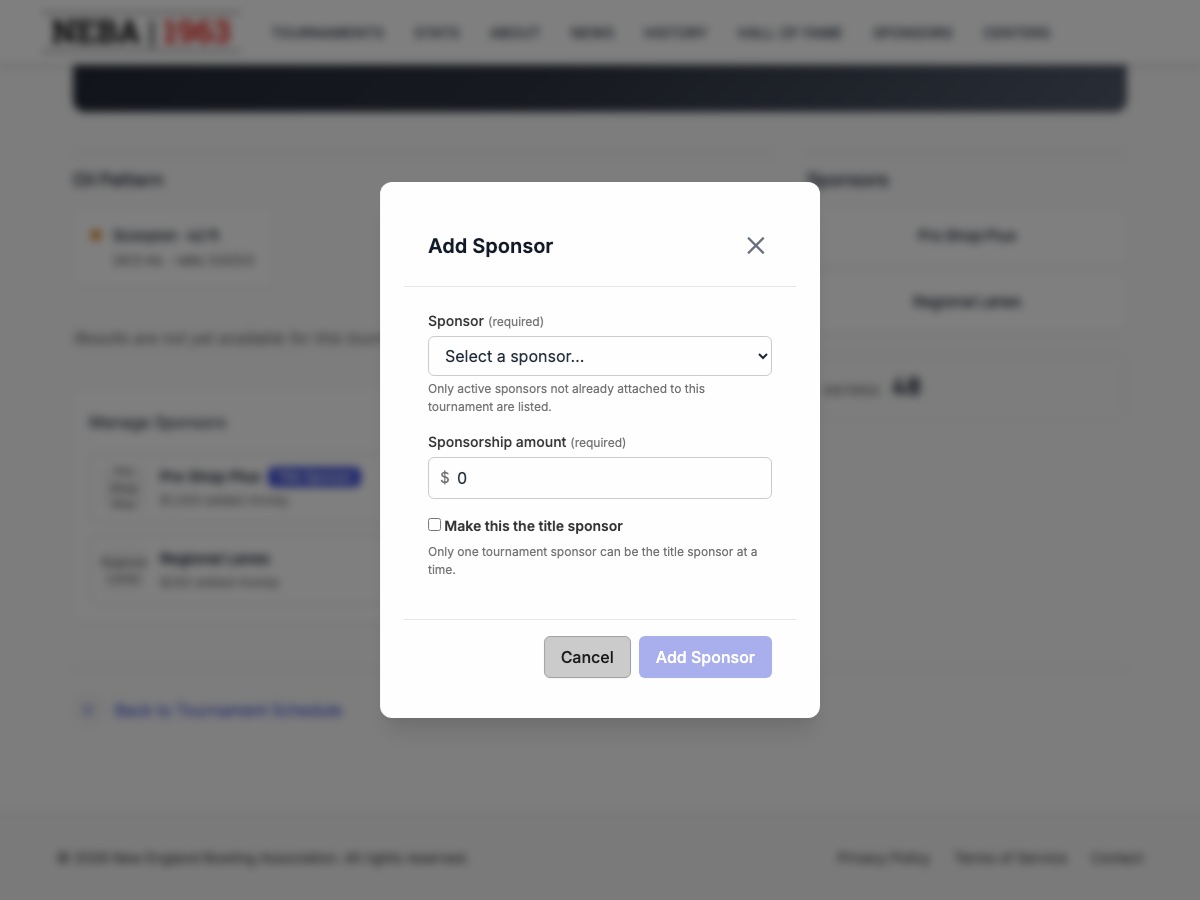
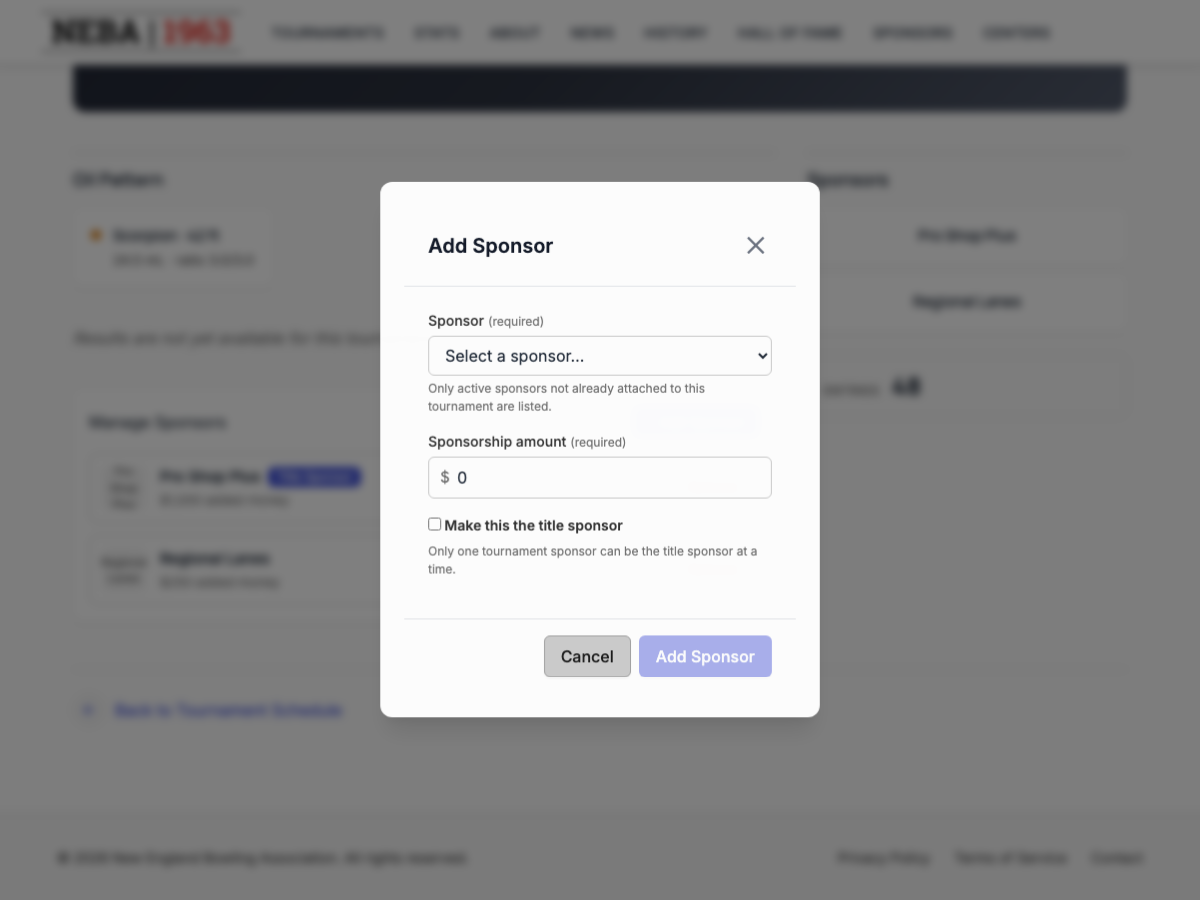
edit tournament help

diff --git a/tests/e2e/docs-screenshots/edit-tournament.spec.ts b/tests/e2e/docs-screenshots/edit-tournament.spec.ts
@@ -1,0 +1,42 @@
+import { test, expect } from '@playwright/test';
+import path from 'node:path';
+
+import { MOCK_TOURNAMENT_ID } from '../mock-api/mock-api-server';
+
+/**
+ * Generates the screenshots embedded in docs/help/edit-tournament.md.
+ *
+ * Run via `npm run docs:screenshots` (playwright.docs.config.ts), never as part of the
+ * normal E2E suite — see ADR-0007 (docs/adr/0007-in-repo-user-help-documentation.md).
+ *
+ * This script only navigates to the pre-filled edit form and never submits it, so it's
+ * safe to re-run against the same mock data without a reset step.
+ */
+
+const outDir = path.join('docs', 'help', 'images', 'edit-tournament');
+
+test.describe.configure({ mode: 'serial' });
+
+test.describe('edit-tournament help screenshots', () => {
+  test.use({ viewport: { width: 1200, height: 800 } });
+
+  test.beforeEach(async ({ page }) => {
+    await page.request.post('/__test/login?permissions=Tournaments.EditTournament');
+  });
+
+  test('detail edit button + pre-filled edit form', async ({ page }) => {
+    await page.goto(`/tournaments/${MOCK_TOURNAMENT_ID}`);
+    await page.waitForSelector('h1');
+
+    await expect(page.getByRole('link', { name: 'Edit Tournament' })).toBeVisible();
+
+    await page.screenshot({ path: path.join(outDir, 'detail-edit-button.png') });
+
+    await page.getByRole('link', { name: 'Edit Tournament' }).click();
+    await page.waitForSelector('#name');
+
+    // fullPage so every section (Venue & Entry Fee, Oil Pattern, Logo) is captured, not
+    // just the first viewport.
+    await page.screenshot({ path: path.join(outDir, 'edit-form.png'), fullPage: true });
+  });
+});

diff --git a/tests/e2e/mock-api/mock-api-server.ts b/tests/e2e/mock-api/mock-api-server.ts
@@ -337,7 +337,7 @@ export const MOCK_TOURNAMENT_DETAIL = {
       sponsorshipAmount: 250,
     },
   ],
-  oilPatterns: [{ name: 'Scorpion', length: 42, volume: 24.5, leftRatio: 3, rightRatio: 3 }],
+  oilPatterns: [{ oilPatternId: '01JX0000000000000000000040', name: 'Scorpion', length: 42, volume: 24.5, leftRatio: 3, rightRatio: 3 }],
   winners: ['Current Leader'],
   results: [],
 };
@@ -395,7 +395,7 @@ const MOCK_TOURNAMENT_OIL_REVEALED = {
   logoUrl: null,
   bowlingCenter: { name: 'Lucky Strike Lanes', city: 'Boston', state: 'MA' },
   sponsors: [],
-  oilPatterns: [{ name: 'Scorpion', length: 42, volume: 24.5, leftRatio: 3, rightRatio: 3 }],
+  oilPatterns: [{ oilPatternId: '01JX0000000000000000000041', name: 'Scorpion', length: 42, volume: 24.5, leftRatio: 3, rightRatio: 3 }],
   oilPatternRevealDateTime: '2020-01-01T00:00:00+00:00',
   winners: [],
   results: [],
@@ -421,7 +421,7 @@ const MOCK_TOURNAMENT_OIL_REVEAL_MGMT = {
   logoUrl: null,
   bowlingCenter: { name: 'Lucky Strike Lanes', city: 'Boston', state: 'MA' },
   sponsors: [],
-  oilPatterns: [{ name: 'Scorpion', length: 42, volume: 24.5, leftRatio: 3, rightRatio: 3 }],
+  oilPatterns: [{ oilPatternId: '01JX0000000000000000000042', name: 'Scorpion', length: 42, volume: 24.5, leftRatio: 3, rightRatio: 3 }],
   oilPatternRevealDateTime: '2030-01-01T00:00:00+00:00',
   winners: [],
   results: [],

diff --git a/docs/help/edit-tournament.md b/docs/help/edit-tournament.md
@@ -1,0 +1,52 @@
+# Edit a Tournament
+
+Lets staff update an existing tournament's details — name, type, dates, venue, entry fee, oil pattern, and logo.
+
+## Prerequisites
+
+You need the `Tournaments.EditTournament` permission, enforced via the dynamic `Permission:Tournaments.EditTournament` policy — see the `Permission:{value}` row in [`docs/policies/README.md`](../policies/README.md). If you don't have it, no "Edit Tournament" button appears on the tournament's detail page, and `/tournaments/{id}/edit` shows a "you don't have permission" message instead of the form.
+
+## Steps
+
+1. Go to the tournament's detail page (`/tournaments/{id}`).
+2. Click **Edit Tournament** next to the tournament name.
+
+   ![Tournament detail page with the Edit Tournament button visible](images/edit-tournament/detail-edit-button.png)
+
+3. On the **Edit Tournament** page, the form is pre-filled with the tournament's current values. Update any of:
+   - **Basic Info** — **Name**, **Tournament Type**, **Start Date**, and **End Date** (all required — the season is re-derived automatically from the dates, so the dates must fall entirely within one already-configured season), and the **Counts toward season stats and awards** checkbox.
+   - **Venue & Entry Fee** — an optional **Bowling Center**, required **Entry Fee** (zero or greater), and **NEBA Added Money** (zero or greater — money NEBA itself adds to the prize fund, shown to bowlers as "Added money" instead of the entry fee whenever it's set), plus an optional **External Registration URL** (must be a full address, e.g. `https://example.com`, if provided).
+   - **Oil Pattern** — optional. Set an optional **Reveal Date/Time** (in your local time zone) to keep the pattern's full details hidden from everyone except tournament management until that moment — leave it blank to make the pattern public immediately. Then choose one of three modes with the segmented control: **No Pattern** (optionally set Length/Ratio category manually), **Pick Existing** (choose a pattern from NEBA's pattern library), or **Create New** (add a new pattern to the library and select it immediately). You can provide either an existing/new oil pattern or manual categories, not both.
+   - **Logo** — if a logo is already set, it's shown with a **Remove current logo** button. Drag and drop, or click to browse for, a replacement image (up to 5 MB).
+
+   ![Edit Tournament form pre-filled with existing tournament data](images/edit-tournament/edit-form.png)
+
+   The **Save Changes** button is disabled while a logo upload is still in progress, so you can't submit with a half-uploaded file.
+
+4. Click **Save Changes** to save, or **Cancel** to discard and return to the tournament's detail page.
+
+   If you've made any changes and try to leave the page before saving — via **Cancel**, clicking away to another page, or closing/refreshing the browser tab — you're asked to confirm first ("Discard unsaved changes?" with **Leave**/**Stay** options, or your browser's own "leave site?" prompt for a tab close/refresh). Choose **Stay** (or cancel the browser prompt) to keep working on the form.
+
+## What happens after you confirm
+
+- **Success**: a "Tournament Updated" toast appears and you're taken back to the tournament's detail page (`/tournaments/{id}`).
+- **Failure**: the form stays on screen with an "Unable to Save Tournament" message explaining what went wrong (see Troubleshooting below) — nothing is saved, and you can fix the form and try again without re-entering everything.
+
+## Troubleshooting
+
+| What you see | What it means |
+| --- | --- |
+| No "Edit Tournament" button on the tournament's detail page, or a "you don't have permission" message on `/tournaments/{id}/edit` | You don't hold `Tournaments.EditTournament` — ask an admin to grant it if you believe you should have it. |
+| "This tournament could not be found." | The tournament was deleted, or the link/ID is wrong. Return to the Tournaments list and find it again. |
+| "No season is configured that contains these tournament dates." | The Start Date/End Date range doesn't fall entirely within any existing season. Adjust the dates, or ask an admin to configure a season covering that range. |
+| "The specified bowling center was not found." | The selected bowling center no longer exists or its certification number is invalid. Choose a different center or leave it unassigned. |
+| "The specified oil pattern was not found." | The picked oil pattern no longer exists in the library. Re-select a pattern, create a new one, or switch to manual categories/No Pattern. |
+| "Name is required.", "Tournament type is required.", "Start date is required.", "End date is required.", "Entry fee must be zero or greater.", or "NEBA added money must be zero or greater." | A required field was left blank or invalid. Fill it in and try again. |
+| A validation message about the external registration URL | The URL isn't a valid, absolute address (e.g. missing `https://`). Correct it and try again. |
+| A red error status next to the logo upload (e.g. "File exceeds the maximum allowed size of 5 MB." / "Upload failed.") | The logo failed to upload — the rest of the form is unaffected. Remove it and try again with a smaller or different file. |
+| Any other "Unable to Save Tournament" message | The server rejected the request; the message describes the specific problem. The tournament was not updated — correct the issue and submit again. |
+
+## Related
+
+- [`docs/policies/README.md`](../policies/README.md) — the `Permission:{value}` policy this action requires and how it's evaluated.
+- [`docs/help/create-tournament.md`](create-tournament.md) — the equivalent doc for adding a new tournament.
